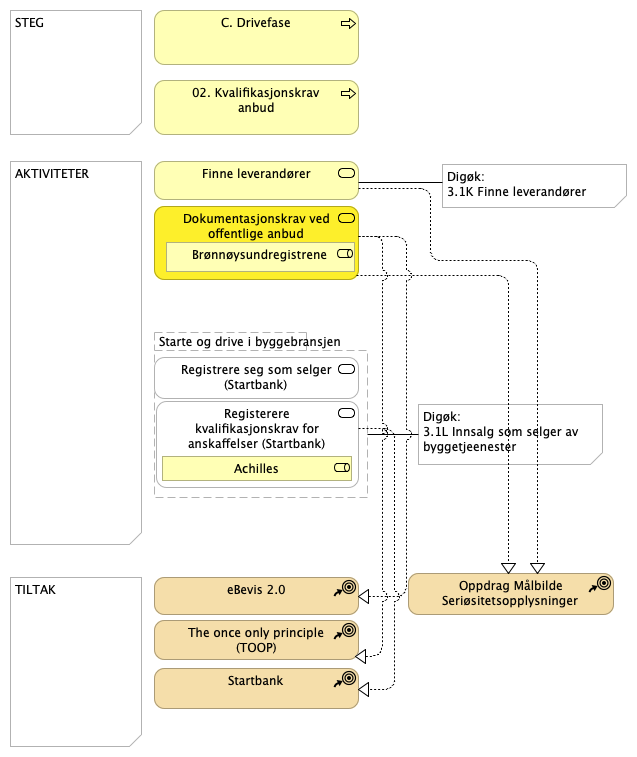
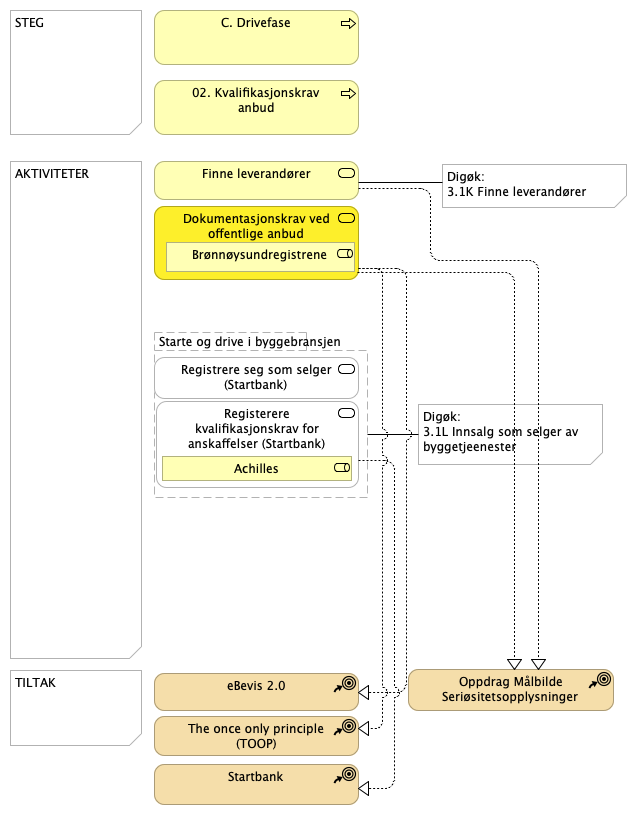
innspill fra starte og drive i Narvik

diff --git a/docs/id-0322705d/views/78f816fc-e15a-4ff1-bff8-065c4a5af3fa.html b/docs/id-0322705d/views/78f816fc-e15a-4ff1-bff8-065c4a5af3fa.html
@@ -32,9 +32,9 @@
 
 						<area shape="rect" coords="154,206,359,280" href="../elements/id-ed7869de-9227-44ee-b736-07911d6e5984.html"  target="element">
 						<area shape="rect" coords="154,80,359,135" href="../elements/id-5dd712df-7a24-425a-a8b9-508170a8eec4.html"  target="element">
-						<area shape="rect" coords="154,577,359,615" href="../elements/id-19eb65af-a2fc-4fd3-9510-f95a2fdd5dc5.html"  target="element">
-						<area shape="rect" coords="154,668,359,709" href="../elements/id-6005f229-c609-4328-9e5e-14c2934f5fe7.html"  target="element">
-						<area shape="rect" coords="154,620,359,660" href="../elements/c02ff584-f1d9-4498-a4cc-5aa849262813.html"  target="element">
+						<area shape="rect" coords="154,673,359,711" href="../elements/id-19eb65af-a2fc-4fd3-9510-f95a2fdd5dc5.html"  target="element">
+						<area shape="rect" coords="154,764,359,805" href="../elements/id-6005f229-c609-4328-9e5e-14c2934f5fe7.html"  target="element">
+						<area shape="rect" coords="154,716,359,756" href="../elements/c02ff584-f1d9-4498-a4cc-5aa849262813.html"  target="element">
 						<area shape="rect" coords="154,161,359,200" href="../elements/7988c024-bd89-4fc8-ab04-003bf248a556.html"  target="element">
 										<area shape="rect" coords="162,456,352,481" href="../elements/ce75c090-cb23-493f-8bda-77615d5fc86d.html"  target="element">
 
@@ -42,7 +42,7 @@
 								<area shape="rect" coords="154,357,359,399" href="../elements/8e465a9c-c251-44f9-9ccb-330d3992fe32.html"  target="element">
 
 						<area shape="rect" coords="154,332,368,498" href="../elements/31a60498-3ffd-41f9-ba6a-12cab670e6a9.html"  target="element">
-						<area shape="rect" coords="408,573,614,615" href="../elements/720a2348-7c8a-4772-9c59-ae8bbe7ff8d8.html"  target="element">
+						<area shape="rect" coords="408,669,614,711" href="../elements/720a2348-7c8a-4772-9c59-ae8bbe7ff8d8.html"  target="element">
 
 			</map>
 			<div role="tabpanel">
@@ -82,8 +82,6 @@
 								</thead>
 								<tbody>
 											<tr><td> <a href="../elements/id-853791ec-4bd5-43f5-9a7a-6197e1851d8d.html" target="element"> C. Drivefase </a> </td><td class="i18n-elementtype-BusinessProcess"></td></tr>
-											<!-- DEBUG: Skipping element from class com.archimatetool.model.impl.DiagramModelNote -->
-											<!-- DEBUG: Skipping element from class com.archimatetool.model.impl.DiagramModelNote -->
 											<tr><td> <a href="../elements/id-ed7869de-9227-44ee-b736-07911d6e5984.html" target="element"> Dokumentasjonskrav ved offentlige anbud </a> </td><td class="i18n-elementtype-BusinessService"></td></tr>
 													<tr><td> <a href="../elements/id-85e0d52e-1714-402c-9d18-fdf28509f205.html" target="element"> Br&#248;nn&#248;ysundregistrene </a> </td><td class="i18n-elementtype-BusinessRole"></td></tr>
 											
@@ -102,6 +100,8 @@
 											<!-- DEBUG: Skipping element from class com.archimatetool.model.impl.DiagramModelNote -->
 											<tr><td> <a href="../elements/720a2348-7c8a-4772-9c59-ae8bbe7ff8d8.html" target="element"> Oppdrag M&#229;lbilde Seri&#248;sitetsopplysninger </a> </td><td class="i18n-elementtype-CourseOfAction"></td></tr>
 											<!-- DEBUG: Skipping element from class com.archimatetool.model.impl.DiagramModelNote -->
+											<!-- DEBUG: Skipping element from class com.archimatetool.model.impl.DiagramModelNote -->
+											<!-- DEBUG: Skipping element from class com.archimatetool.model.impl.DiagramModelNote -->
 
 								</tbody>
 							</table>
@@ -117,8 +117,6 @@
 									</tr>
 								</thead>
 								<tbody>
-											<!-- DEBUG: Skipping element from class com.archimatetool.model.impl.DiagramModelNote -->
-											<!-- DEBUG: Skipping element from class com.archimatetool.model.impl.DiagramModelNote -->
 																	<tr>
 																		<td> <a href="../elements/id-6369b12e-596c-4ac8-87d5-236117234c23.html" target="element">  </a> </td>
 																		<td> <a href="../elements/id-6369b12e-596c-4ac8-87d5-236117234c23.html" target="element" class="i18n-elementtype-RealizationRelationship"></a> </td>
@@ -182,6 +180,8 @@
 
 													
 											
+											<!-- DEBUG: Skipping element from class com.archimatetool.model.impl.DiagramModelNote -->
+											<!-- DEBUG: Skipping element from class com.archimatetool.model.impl.DiagramModelNote -->
 											<!-- DEBUG: Skipping element from class com.archimatetool.model.impl.DiagramModelNote -->
 											<!-- DEBUG: Skipping element from class com.archimatetool.model.impl.DiagramModelNote -->
 											<!-- DEBUG: Skipping element from class com.archimatetool.model.impl.DiagramModelNote -->

diff --git a/docs/id-0322705d/views/05adcf7d-595c-4af0-b498-1bd1150a50d0.html b/docs/id-0322705d/views/05adcf7d-595c-4af0-b498-1bd1150a50d0.html
@@ -32,7 +32,7 @@
 
 						<area shape="rect" coords="154,220,359,291" href="../elements/id-e7590379-556d-43de-91d6-55964404d6f1.html"  target="element">
 						<area shape="rect" coords="154,80,359,135" href="../elements/id-1def7d65-fc85-4eb8-914c-c9b73d65ba23.html"  target="element">
-						<area shape="rect" coords="154,559,359,596" href="../elements/f9dc90bf-5f6c-4c7c-9405-e74cc3e31540.html"  target="element">
+						<area shape="rect" coords="154,668,359,705" href="../elements/f9dc90bf-5f6c-4c7c-9405-e74cc3e31540.html"  target="element">
 								<area shape="rect" coords="166,482,347,508" href="../elements/id-aa59775b-b64e-465a-9580-88edf7172a83.html"  target="element">
 								<area shape="rect" coords="166,507,347,534" href="../elements/ef2e267b-fb6d-442c-b72b-c6626d26f5fb.html"  target="element">
 
@@ -40,7 +40,7 @@
 								<area shape="rect" coords="163,185,347,213" href="../elements/id-85e0d52e-1714-402c-9d18-fdf28509f205.html"  target="element">
 
 						<area shape="rect" coords="154,161,359,216" href="../elements/4a6daf1d-a0ce-49fc-8ade-d7aae2f937ff.html"  target="element">
-						<area shape="rect" coords="154,602,359,637" href="../elements/b5105ba7-d96d-4c83-b4b2-4fef0a215d5e.html"  target="element">
+						<area shape="rect" coords="154,711,359,746" href="../elements/b5105ba7-d96d-4c83-b4b2-4fef0a215d5e.html"  target="element">
 								<area shape="rect" coords="159,417,347,445" href="../elements/id-85e0d52e-1714-402c-9d18-fdf28509f205.html"  target="element">
 
 						<area shape="rect" coords="154,378,359,451" href="../elements/id-c7540061-b15e-48dc-a0ee-d2a2914552ac.html"  target="element">
@@ -87,8 +87,6 @@
 								</thead>
 								<tbody>
 											<tr><td> <a href="../elements/id-853791ec-4bd5-43f5-9a7a-6197e1851d8d.html" target="element"> C. Drivefase </a> </td><td class="i18n-elementtype-BusinessProcess"></td></tr>
-											<!-- DEBUG: Skipping element from class com.archimatetool.model.impl.DiagramModelNote -->
-											<!-- DEBUG: Skipping element from class com.archimatetool.model.impl.DiagramModelNote -->
 											<tr><td> <a href="../elements/id-e7590379-556d-43de-91d6-55964404d6f1.html" target="element"> Tingslysing av pant ved behov for finansiering </a> </td><td class="i18n-elementtype-BusinessService"></td></tr>
 													<tr><td> <a href="../elements/id-85e0d52e-1714-402c-9d18-fdf28509f205.html" target="element"> Br&#248;nn&#248;ysundregistrene </a> </td><td class="i18n-elementtype-BusinessRole"></td></tr>
 											
@@ -110,6 +108,8 @@
 													<tr><td> <a href="../elements/id-aa59775b-b64e-465a-9580-88edf7172a83.html" target="element"> Innovasjon Norge </a> </td><td class="i18n-elementtype-BusinessRole"></td></tr>
 											
 											<!-- DEBUG: Skipping element from class com.archimatetool.model.impl.DiagramModelNote -->
+											<!-- DEBUG: Skipping element from class com.archimatetool.model.impl.DiagramModelNote -->
+											<!-- DEBUG: Skipping element from class com.archimatetool.model.impl.DiagramModelNote -->
 
 								</tbody>
 							</table>
@@ -125,8 +125,6 @@
 									</tr>
 								</thead>
 								<tbody>
-											<!-- DEBUG: Skipping element from class com.archimatetool.model.impl.DiagramModelNote -->
-											<!-- DEBUG: Skipping element from class com.archimatetool.model.impl.DiagramModelNote -->
 																	<tr>
 																		<td> <a href="../elements/6a8a8b3f-be24-48f0-8f45-89c9caa659f3.html" target="element">  </a> </td>
 																		<td> <a href="../elements/6a8a8b3f-be24-48f0-8f45-89c9caa659f3.html" target="element" class="i18n-elementtype-RealizationRelationship"></a> </td>
@@ -202,6 +200,8 @@
 																			</tr>
 
 											
+											<!-- DEBUG: Skipping element from class com.archimatetool.model.impl.DiagramModelNote -->
+											<!-- DEBUG: Skipping element from class com.archimatetool.model.impl.DiagramModelNote -->
 											<!-- DEBUG: Skipping element from class com.archimatetool.model.impl.DiagramModelNote -->
 
 								</tbody>

diff --git a/docs/id-0322705d/views/9d4e1521-4584-481b-89ed-d509b5291fd3.html b/docs/id-0322705d/views/9d4e1521-4584-481b-89ed-d509b5291fd3.html
@@ -32,7 +32,7 @@
 						<area shape="rect" coords="154,80,359,135" href="../elements/id-85fa73e0-1eee-44f4-a782-6141b154f8ab.html"  target="element">
 						<area shape="rect" coords="154,296,359,337" href="../elements/id-886adc1d-f0ed-41b4-ae3a-dc191b9c8eb8.html"  target="element">
 						<area shape="rect" coords="154,262,359,293" href="../elements/id-8b9bd5e8-97f7-4a9a-b8c1-e663adf8bf04.html"  target="element">
-						<area shape="rect" coords="233,632,398,700" href="../elements/id-9e1ff615-c5b1-4903-86d5-de0ee5cc1ba9.html"  target="element">
+						<area shape="rect" coords="230,671,395,739" href="../elements/id-9e1ff615-c5b1-4903-86d5-de0ee5cc1ba9.html"  target="element">
 						<area shape="rect" coords="154,342,359,393" href="../elements/59a02096-1def-4962-ab83-4fb40b336af4.html"  target="element">
 						<area shape="rect" coords="154,212,359,255" href="../elements/140d8b76-722b-4963-be0c-e42e32491fa6.html"  target="element">
 
@@ -78,12 +78,12 @@
 											<tr><td> <a href="../elements/id-85fa73e0-1eee-44f4-a782-6141b154f8ab.html" target="element"> 01. Kj&#248;p og salg </a> </td><td class="i18n-elementtype-BusinessProcess"></td></tr>
 											<tr><td> <a href="../elements/id-886adc1d-f0ed-41b4-ae3a-dc191b9c8eb8.html" target="element"> F&#248;re regnskap (daglig) </a> </td><td class="i18n-elementtype-BusinessService"></td></tr>
 											<tr><td> <a href="../elements/id-8b9bd5e8-97f7-4a9a-b8c1-e663adf8bf04.html" target="element"> Bokf&#248;ring (daglig) </a> </td><td class="i18n-elementtype-BusinessService"></td></tr>
-											<!-- DEBUG: Skipping element from class com.archimatetool.model.impl.DiagramModelNote -->
-											<!-- DEBUG: Skipping element from class com.archimatetool.model.impl.DiagramModelNote -->
 											<tr><td> <a href="../elements/id-9e1ff615-c5b1-4903-86d5-de0ee5cc1ba9.html" target="element"> Open Accounting </a> </td><td class="i18n-elementtype-CourseOfAction"></td></tr>
 											<tr><td> <a href="../elements/59a02096-1def-4962-ab83-4fb40b336af4.html" target="element"> Oppf&#248;lgning av kunder (purring, inkasso, utlegg) </a> </td><td class="i18n-elementtype-BusinessService"></td></tr>
 											<!-- DEBUG: Skipping element from class com.archimatetool.model.impl.DiagramModelNote -->
 											<tr><td> <a href="../elements/140d8b76-722b-4963-be0c-e42e32491fa6.html" target="element"> Fakturah&#229;ndtering (inng&#229;ende, utg&#229;ende) </a> </td><td class="i18n-elementtype-BusinessService"></td></tr>
+											<!-- DEBUG: Skipping element from class com.archimatetool.model.impl.DiagramModelNote -->
+											<!-- DEBUG: Skipping element from class com.archimatetool.model.impl.DiagramModelNote -->
 											<!-- DEBUG: Skipping element from class com.archimatetool.model.impl.DiagramModelNote -->
 											<!-- DEBUG: Skipping element from class com.archimatetool.model.impl.DiagramModelNote -->
 											<!-- DEBUG: Skipping element from class com.archimatetool.model.impl.DiagramModelNote -->

diff --git a/docs/id-0322705d/views/6b7dbfcf-e487-40a6-878f-ba9b1210d9c6.html b/docs/id-0322705d/views/6b7dbfcf-e487-40a6-878f-ba9b1210d9c6.html
@@ -82,8 +82,6 @@
 								</thead>
 								<tbody>
 											<tr><td> <a href="../elements/id-853791ec-4bd5-43f5-9a7a-6197e1851d8d.html" target="element"> C. Drivefase </a> </td><td class="i18n-elementtype-BusinessProcess"></td></tr>
-											<!-- DEBUG: Skipping element from class com.archimatetool.model.impl.DiagramModelNote -->
-											<!-- DEBUG: Skipping element from class com.archimatetool.model.impl.DiagramModelNote -->
 											<tr><td> <a href="../elements/e66e50df-eac0-4077-a061-faf7541a9ce4.html" target="element"> 04 (ny) Melde skatt og avgift </a> </td><td class="i18n-elementtype-BusinessProcess"></td></tr>
 											<tr><td> <a href="../elements/d8ca4498-01df-4cbd-904d-095c695585c3.html" target="element"> Melde/endre forskuddsskatt ENK/ANS/DA </a> </td><td class="i18n-elementtype-BusinessService"></td></tr>
 													<tr><td> <a href="../elements/id-d23252a9-fc74-458c-9981-210b21187514.html" target="element"> Skatteetaten </a> </td><td class="i18n-elementtype-BusinessRole"></td></tr>
@@ -100,6 +98,8 @@
 													<tr><td> <a href="../elements/id-85e0d52e-1714-402c-9d18-fdf28509f205.html" target="element"> Br&#248;nn&#248;ysundregistrene </a> </td><td class="i18n-elementtype-BusinessRole"></td></tr>
 											
 											<!-- DEBUG: Skipping element from class com.archimatetool.model.impl.DiagramModelNote -->
+											<!-- DEBUG: Skipping element from class com.archimatetool.model.impl.DiagramModelNote -->
+											<!-- DEBUG: Skipping element from class com.archimatetool.model.impl.DiagramModelNote -->
 
 								</tbody>
 							</table>
@@ -115,8 +115,6 @@
 									</tr>
 								</thead>
 								<tbody>
-											<!-- DEBUG: Skipping element from class com.archimatetool.model.impl.DiagramModelNote -->
-											<!-- DEBUG: Skipping element from class com.archimatetool.model.impl.DiagramModelNote -->
 																			<tr>
 																				<td> <a href="../elements/7469f288-e8ed-4729-8842-e6b97148a227.html" target="element">  </a> </td>
 																				<td> <a href="../elements/7469f288-e8ed-4729-8842-e6b97148a227.html" target="element" class="i18n-elementtype-AssignmentRelationship"></a> </td>
@@ -163,6 +161,8 @@
 																			</tr>
 
 											
+											<!-- DEBUG: Skipping element from class com.archimatetool.model.impl.DiagramModelNote -->
+											<!-- DEBUG: Skipping element from class com.archimatetool.model.impl.DiagramModelNote -->
 											<!-- DEBUG: Skipping element from class com.archimatetool.model.impl.DiagramModelNote -->
 
 								</tbody>

diff --git a/docs/id-0322705d/views/1bdc0081-c566-4f55-a147-f68b48fec450.html b/docs/id-0322705d/views/1bdc0081-c566-4f55-a147-f68b48fec450.html
@@ -33,7 +33,7 @@
 						<area shape="rect" coords="154,10,359,65" href="../elements/id-853791ec-4bd5-43f5-9a7a-6197e1851d8d.html"  target="element">
 						<area shape="rect" coords="154,178,359,226" href="../elements/id-c66435b7-d6e1-4d9c-b3c1-a2afa2fd862d.html"  target="element">
 						<area shape="rect" coords="154,80,359,135" href="../elements/id-2cc41c01-0be4-4eb3-bd4b-a0c31ba86523.html"  target="element">
-						<area shape="rect" coords="154,560,359,610" href="../elements/id-e8de47ba-216e-43f8-831d-6036dfd5ae34.html"  target="element">
+						<area shape="rect" coords="154,687,359,737" href="../elements/id-e8de47ba-216e-43f8-831d-6036dfd5ae34.html"  target="element">
 
 			</map>
 			<div role="tabpanel">
@@ -76,11 +76,11 @@
 													<tr><td> <a href="../elements/3a91a5ed-0562-432f-9143-74668023a046.html" target="element"> Ut&#248;ve adgangskontroll </a> </td><td class="i18n-elementtype-BusinessService"></td></tr>
 											
 											<tr><td> <a href="../elements/id-853791ec-4bd5-43f5-9a7a-6197e1851d8d.html" target="element"> C. Drivefase </a> </td><td class="i18n-elementtype-BusinessProcess"></td></tr>
-											<!-- DEBUG: Skipping element from class com.archimatetool.model.impl.DiagramModelNote -->
-											<!-- DEBUG: Skipping element from class com.archimatetool.model.impl.DiagramModelNote -->
 											<tr><td> <a href="../elements/id-c66435b7-d6e1-4d9c-b3c1-a2afa2fd862d.html" target="element"> Synliggj&#248;re kompetansebevis </a> </td><td class="i18n-elementtype-BusinessService"></td></tr>
 											<tr><td> <a href="../elements/id-2cc41c01-0be4-4eb3-bd4b-a0c31ba86523.html" target="element"> 03. Tjenesteyting </a> </td><td class="i18n-elementtype-BusinessProcess"></td></tr>
 											<tr><td> <a href="../elements/id-e8de47ba-216e-43f8-831d-6036dfd5ae34.html" target="element"> Digitale HMS-kort </a> </td><td class="i18n-elementtype-CourseOfAction"></td></tr>
+											<!-- DEBUG: Skipping element from class com.archimatetool.model.impl.DiagramModelNote -->
+											<!-- DEBUG: Skipping element from class com.archimatetool.model.impl.DiagramModelNote -->
 											<!-- DEBUG: Skipping element from class com.archimatetool.model.impl.DiagramModelNote -->
 
 								</tbody>

diff --git a/docs/id-0322705d/views/8d02e3ec-6f8c-4b1f-99a9-3d677bf4459e.html b/docs/id-0322705d/views/8d02e3ec-6f8c-4b1f-99a9-3d677bf4459e.html
@@ -70,11 +70,11 @@
 								</thead>
 								<tbody>
 											<tr><td> <a href="../elements/id-853791ec-4bd5-43f5-9a7a-6197e1851d8d.html" target="element"> C. Drivefase </a> </td><td class="i18n-elementtype-BusinessProcess"></td></tr>
-											<!-- DEBUG: Skipping element from class com.archimatetool.model.impl.DiagramModelNote -->
-											<!-- DEBUG: Skipping element from class com.archimatetool.model.impl.DiagramModelNote -->
 											<tr><td> <a href="../elements/id-5ef744f4-9aa4-4db7-a76f-962fdbe7ba6b.html" target="element"> S&#248;knad om tollkreditt </a> </td><td class="i18n-elementtype-BusinessService"></td></tr>
 											<tr><td> <a href="../elements/id-13f87a28-1e30-434d-8711-44edd3943272.html" target="element"> Stille bankgaranti </a> </td><td class="i18n-elementtype-BusinessService"></td></tr>
 											<tr><td> <a href="../elements/id-d338f3a4-5ab9-4c6e-8a37-1e2cfe7634eb.html" target="element"> 05. Kreditt </a> </td><td class="i18n-elementtype-BusinessProcess"></td></tr>
+											<!-- DEBUG: Skipping element from class com.archimatetool.model.impl.DiagramModelNote -->
+											<!-- DEBUG: Skipping element from class com.archimatetool.model.impl.DiagramModelNote -->
 											<!-- DEBUG: Skipping element from class com.archimatetool.model.impl.DiagramModelNote -->
 
 								</tbody>
